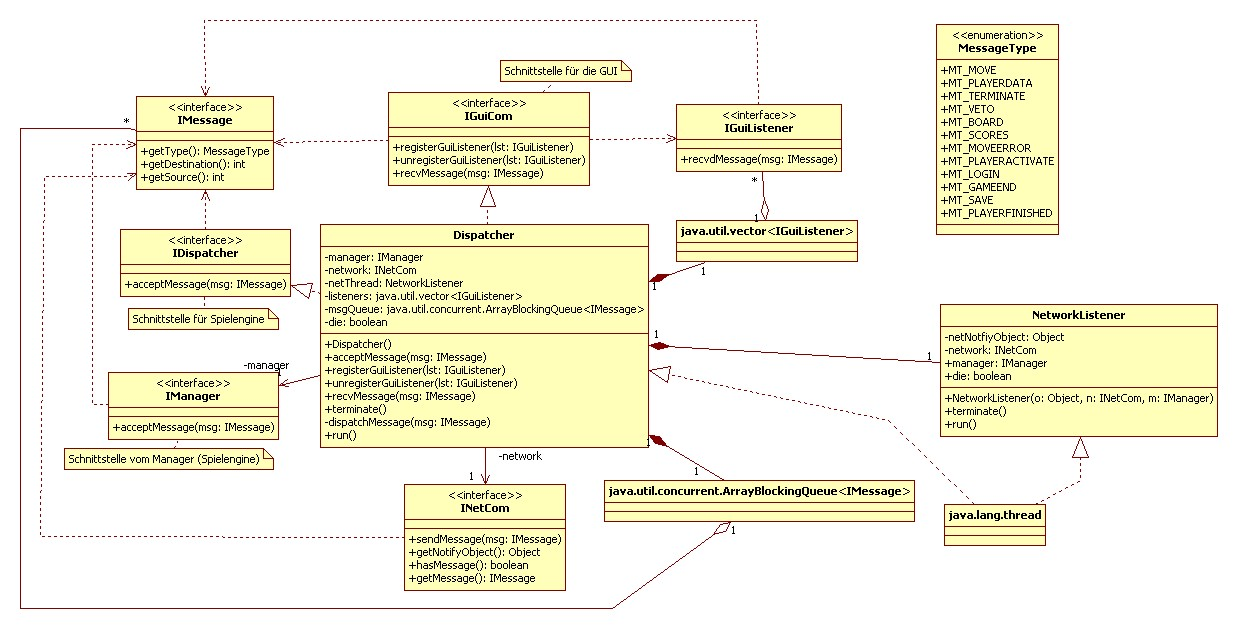
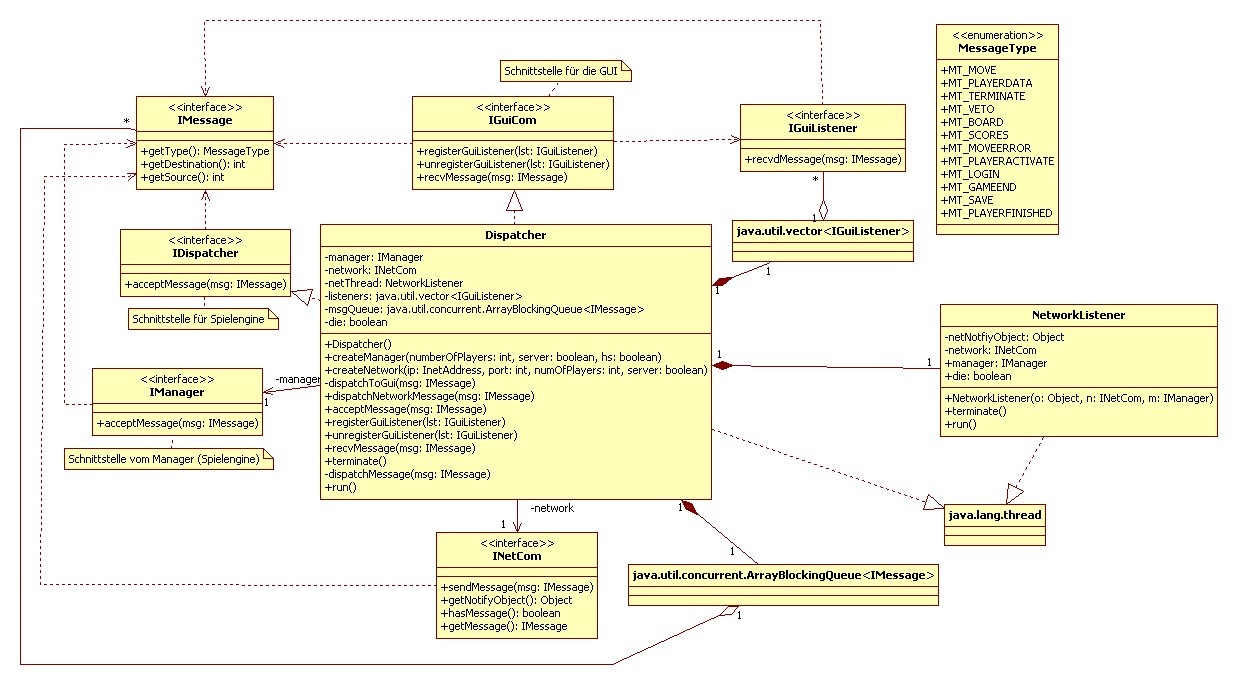
* Serverengine Entwurf angepasst * Anpassungen in der GUI und im Dispatcher für den Netzwerkmodus * Uebersetzungsfehler in Manager.java behoben

diff --git a/trunk/src/com/googlecode/btuswphalma/gui/DialogClientGameData.java b/trunk/src/com/googlecode/btuswphalma/gui/DialogClientGameData.java
@@ -15,18 +15,29 @@ import javax.swing.JDialog;
 import javax.swing.JFrame;
 import javax.swing.JLabel;
 import javax.swing.JTextField;
+import javax.swing.JOptionPane;
+
+import java.net.InetAddress;
+import java.net.UnknownHostException;
 
 /**
  * Modaler Dialog zur Eingabe der Spielerdaten der Clients
  * 
  * @author embix
+ * @author ASM
  * 
  */
 public class DialogClientGameData extends JDialog implements ActionListener {
 
     private boolean ok;
     private JTextField fieldPlayerName;
+    private JTextField fieldIpAddress;
+    private JTextField fieldPort;
     private ClientGameData clientGameData;
+    
+    private boolean hotseat;
+    
+    private String defaultPort = "32334";	// TODO: Zentralisieren?
 
     /**
      * Compiler generierte UID fuer diese Klasse. Wird durch Vererbung von
@@ -38,9 +49,13 @@ public class DialogClientGameData extends JDialog implements ActionListener {
      * @param owner
      *                gibt an, zu welchem Container der Dialog verankert werden
      *                soll.
+     * @param hs 
+     *			gibt an, ob dies ein Clientdialog für den Hotseatmodus sein soll
      */
-    public DialogClientGameData(JFrame owner) {
+    public DialogClientGameData(JFrame owner, boolean hs) {
 	super(owner, "Eingabe der Clientspieldaten", true);
+	
+	hotseat = hs;
 
 	Container pane = getContentPane();
 	GridBagLayout gridbag = new GridBagLayout();
@@ -58,6 +73,35 @@ public class DialogClientGameData extends JDialog implements ActionListener {
 	c.gridwidth = GridBagConstraints.REMAINDER;
 	gridbag.setConstraints(fieldPlayerName, c);
 	pane.add(fieldPlayerName);
+	
+	// Bereich fuer die IP-Adresse
+	label = new JLabel("IP Adresse/Hostname");
+	c.gridwidth = 1;
+	gridbag.setConstraints(label, c);
+	pane.add(label);
+	fieldIpAddress = new JTextField(10);
+	c.gridwidth = GridBagConstraints.REMAINDER;
+	gridbag.setConstraints(fieldIpAddress, c);
+	pane.add(fieldIpAddress);
+	
+	if(hotseat) {
+	    fieldIpAddress.setEnabled(false);
+	}
+	
+	// Bereich fuer den Port
+	label = new JLabel("Netzwerk Port");
+	c.gridwidth = 1;
+	gridbag.setConstraints(label, c);
+	pane.add(label);
+	fieldPort = new JTextField(10);
+	c.gridwidth = GridBagConstraints.REMAINDER;
+	gridbag.setConstraints(fieldPort, c);
+	pane.add(fieldPort);
+	
+	fieldPort.setText(defaultPort);
+	if(hotseat) {
+	    fieldPort.setEnabled(false);
+	}
 
 	/* allgemeiner Standard fuer Dialoge */
 	// OK
@@ -103,6 +147,13 @@ public class DialogClientGameData extends JDialog implements ActionListener {
 	    ok = false; // abgebrochen
 	    dispose(); // Dialog beenden
 	}
+	
+	// Copy & Paste vom Masterdialog :/
+	if(getPort() == 0 || (getPort() > 65535)) {
+		fieldPort.setText(defaultPort);
+		fieldPort.requestFocus();
+		return;
+	    }
     }
 
     /**
@@ -113,6 +164,11 @@ public class DialogClientGameData extends JDialog implements ActionListener {
     public ClientGameData getClientGameData() {
 	clientGameData = new ClientGameData();
 	clientGameData.playerName = getPlayerName();
+	
+	if(!hotseat) {
+        	clientGameData.ip = getIpAddress();
+        	clientGameData.port = getPort();
+	}
 	return clientGameData;
     }
 
@@ -128,5 +184,34 @@ public class DialogClientGameData extends JDialog implements ActionListener {
      */
     private String getPlayerName() {
 	return fieldPlayerName.getText();
+    }
+    
+    private InetAddress getIpAddress()
+    {
+	InetAddress a;
+	
+	try {
+	    a = InetAddress.getByName(fieldIpAddress.getText());
+	}
+	catch(UnknownHostException e) {
+	    JOptionPane.showMessageDialog(null,
+		    "Fehler beim Verarbeiten der IP Adresse/des Hostnamens:\n"
+		    + e.getMessage());
+	    a = null;
+	}
+	return a;
+    }
+    
+    /**
+     * @return gibt den eingegebenen Netzwerkport zurueck
+     */
+    private int getPort() {
+	int port;
+	try {
+	    port = Integer.parseInt(fieldPort.getText());
+	} catch (java.lang.NumberFormatException ex) {
+	    port = 0;
+	}
+	return port;
     }
 }

diff --git a/trunk/src/com/googlecode/btuswphalma/gui/DialogMasterGameData.java b/trunk/src/com/googlecode/btuswphalma/gui/DialogMasterGameData.java
@@ -34,6 +34,10 @@ public class DialogMasterGameData extends JDialog implements ActionListener {
     private JRadioButton radioButtonHotseat;
     private JRadioButton radioButtonNetplay;
     private JTextField fieldAiPlayerCount;
+    private JTextField fieldPort;
+    
+    private String defaultPort = "32334";	// TODO: Sollte vlt. irgendwo zentral als Konstante
+						// definiert sein
 
     /**
      * Compiler generierte UID fuer diese Klasse. Wird durch Vererbung von
@@ -90,6 +94,19 @@ public class DialogMasterGameData extends JDialog implements ActionListener {
 	c.gridwidth = GridBagConstraints.REMAINDER;
 	gridbag.setConstraints(fieldAiPlayerCount, c);
 	pane.add(fieldAiPlayerCount);
+	
+	// Bereich fuer die Portnummereingabe
+	label = new JLabel("Netzwerk Port");
+	c.gridwidth = 1;
+	gridbag.setConstraints(label, c);
+	pane.add(label);
+	fieldPort = new JTextField(10);
+	c.gridwidth = GridBagConstraints.REMAINDER;
+	gridbag.setConstraints(fieldPort, c);
+	pane.add(fieldPort);
+	
+	fieldPort.setText(defaultPort);
+	fieldPort.setEnabled(false);	// Hotseat ist Standardmodus
 
 	// Bereich fuer die Auswahl des Mehrspielermodus
 	radioButtonHotseat = new JRadioButton("Hotseat", true);
@@ -99,7 +116,6 @@ public class DialogMasterGameData extends JDialog implements ActionListener {
 	radioGameMode = new ButtonGroup();
 	radioGameMode.add(radioButtonHotseat);
 	radioGameMode.add(radioButtonNetplay);
-	radioButtonNetplay.setEnabled(false); // TODO: (GUI)(TP3) Netplay disabled - spaeter loeschen
 	add(radioButtonHotseat);
 	add(radioButtonNetplay);
 
@@ -144,6 +160,7 @@ public class DialogMasterGameData extends JDialog implements ActionListener {
 	masterGameData.playerName = getPlayerName();
 	masterGameData.playerCount = getPlayerCount();
 	masterGameData.aiCount = getAiPlayerCount();
+	masterGameData.port = getPort();
 	masterGameData.gmod = getGameMode();
 	return masterGameData;
     }
@@ -179,6 +196,12 @@ public class DialogMasterGameData extends JDialog implements ActionListener {
 		fieldAiPlayerCount.requestFocus();
 		return;
 	    }
+	    
+	    if(getPort() == 0 || (getPort() > 65535)) {
+		fieldPort.setText(defaultPort);
+		fieldPort.requestFocus();
+		return;
+	    }
 
 	    ok = true; // alle Daten korrekt
 	    dispose(); // Dialog beenden
@@ -188,6 +211,14 @@ public class DialogMasterGameData extends JDialog implements ActionListener {
 	    dispose(); // Dialog beenden
 	}
 	// sonst war es ein Klick in die Checkboxen
+	
+	if(cmd.equals("Hotseat")) {
+	    fieldPort.setEnabled(false);
+	}
+	
+	if(cmd.equals("Netzwerkspiel")) {
+	    fieldPort.setEnabled(true);
+	}
     }
 
     /**
@@ -221,6 +252,19 @@ public class DialogMasterGameData extends JDialog implements ActionListener {
 	    aiplayer = 0;
 	}
 	return aiplayer;
+    }
+    
+    /**
+     * @return gibt den eingegebenen Netzwerkport zurueck
+     */
+    private int getPort() {
+	int port;
+	try {
+	    port = Integer.parseInt(fieldPort.getText());
+	} catch (java.lang.NumberFormatException ex) {
+	    port = 0;
+	}
+	return port;
     }
 
     /**

diff --git a/trunk/src/com/googlecode/btuswphalma/gui/SInputGameData.java b/trunk/src/com/googlecode/btuswphalma/gui/SInputGameData.java
@@ -56,13 +56,14 @@ public class SInputGameData implements IRunnableGuiState {
     }
     
     void promptClientGameData() {
-	DialogClientGameData dialog = new DialogClientGameData(controller.getPresentation());
+	DialogClientGameData dialog = new DialogClientGameData(controller.getPresentation(),false);
 	
 	if(dialog.ok()) {
-	    ClientGameData mData = dialog.getClientGameData();
-	    controller.getEngine().createManager(1, false, false);	// TODO: Instanzierung der Clientengine noch nicht bestimmt
+	    ClientGameData cData = dialog.getClientGameData();
+	    controller.getEngine().createManager(1, false, false);
+	    controller.getEngine().createNetwork(cData.ip, cData.port, 0, false);
 	    
-	    controller.getMessageHandler().sendMessage(new LoginMessage(mData.playerName,1,-1));
+	    controller.getMessageHandler().sendMessage(new LoginMessage(cData.playerName,1,-1));
 	}
     }
     
@@ -78,13 +79,16 @@ public class SInputGameData implements IRunnableGuiState {
 	    if(mData.gmod == GameMode.HOT_SEAT ) {
 		// Hotseat Modus -> Infos für die anderen Spieler abholen
 		for(int i=1;i<mData.playerCount;i++) {
-			DialogClientGameData mClientDlg = new DialogClientGameData(controller.getPresentation());
+			DialogClientGameData mClientDlg = new DialogClientGameData(controller.getPresentation(),true);
 			
 			if(mClientDlg.ok()) {
 			    ClientGameData mClientData = mClientDlg.getClientGameData();
 			    controller.getMessageHandler().sendMessage(new LoginMessage(mClientData.playerName,i+1,-1));
 			}
 		    }
+	    } else {
+		// playerCount kann so uebergeben werden da ServerNetCom immer Anzahl Clients plus 1 haben will.
+		controller.getEngine().createNetwork(null, mData.port, mData.playerCount, true);
 	    }
 	}
     }

diff --git a/trunk/src/com/googlecode/btuswphalma/serverengine/Dispatcher.java b/trunk/src/com/googlecode/btuswphalma/serverengine/Dispatcher.java
@@ -3,6 +3,9 @@ package com.googlecode.btuswphalma.serverengine;
 import com.googlecode.btuswphalma.base.*;
 import com.googlecode.btuswphalma.gameengine.IManager;
 import com.googlecode.btuswphalma.gameengine.Manager;
+import com.googlecode.btuswphalma.network.ServerNetCom;
+import com.googlecode.btuswphalma.network.ClientNetCom;
+import java.net.InetAddress;
 
 /**
  * Hauptklasse der Server-Engine
@@ -83,6 +86,31 @@ public class Dispatcher extends Thread implements IDispatcher, IGuiCom {
 	// Manager müssen immer von Runnable abgeleitet werden
 	managerThread = new Thread((Runnable)manager);
 	managerThread.start();
+    }
+    
+    /**
+     * Instanziert das Netzwerksystem
+     * @param ip
+     * 				IP Adresse des Servers (nur notwendig wenn server)
+     * @param port
+     * 				Port zu dem verbunden bzw. an dem gelaucht werden soll
+     * 
+     * @param numOfPlayers
+     * 				Anzahl der teilnehmenden Spieler (nur notwendig wenn server)
+     * @param server
+     * 				Gibt an, ob das Server- oder Clientnetzwerk
+     * 				instanziert werden soll
+     */
+    public void createNetwork(InetAddress ip, int port, int numOfPlayers, boolean server) {
+	if(server) {
+	    network = new ServerNetCom(port, numOfPlayers);
+	}
+	else {
+	    network = new ClientNetCom(ip, port);
+	}
+	
+	netThread = new NetworkListener(network, this);
+	netThread.start();
     }
     
     private void dispatchToGui(IMessage msg) {

diff --git a/trunk/src/com/googlecode/btuswphalma/gui/ClientGameData.java b/trunk/src/com/googlecode/btuswphalma/gui/ClientGameData.java
@@ -3,12 +3,15 @@
  */
 package com.googlecode.btuswphalma.gui;
 
+import java.net.InetAddress;
+
 /**
  * ClientGameData kapselt die Daten der Spieler, die nicht das Spiel leiten,
  * welche zum Spielbeginn benoetigt werden. Das Objekt ist vorerst nicht
  * gekapselt, da es momentan noch nicht sinnvoll erscheint.
  * 
  * @author embix
+ * @author ASM
  * 
  */
 public class ClientGameData {
@@ -17,5 +20,15 @@ public class ClientGameData {
      * Name des Spielers
      */
     public String playerName;
+    
+    /**
+     * Server IP Adresse
+     */
+    public InetAddress ip;
+    
+    /**
+     * Port des Servers
+     */
+    public int port;
 
 }

diff --git a/trunk/tests/com/googlecode/btuswphalma/gui/DialogClientGameDataStarter.java b/trunk/tests/com/googlecode/btuswphalma/gui/DialogClientGameDataStarter.java
@@ -60,7 +60,7 @@ public class DialogClientGameDataStarter extends JPanel implements
      * @see java.awt.event.ActionListener#actionPerformed(java.awt.event.ActionEvent)
      */
     public void actionPerformed(ActionEvent event) {
-	dialog = new DialogClientGameData(owner);
+	dialog = new DialogClientGameData(owner,true);
 	// hier gehts erst weiter, wenn Dialog geschlossen wurde
 	if (dialog.ok()) {
 	    System.out.println("Dialog ok");

diff --git a/trunk/src/com/googlecode/btuswphalma/gameengine/Manager.java b/trunk/src/com/googlecode/btuswphalma/gameengine/Manager.java
@@ -528,7 +528,7 @@ public class Manager implements IManager, Runnable {
      * @return ein Message mit einem Board
      */
     private IMessage createBoardMessage(int destination) {
-        return new BoardMessage(SERVER_ID, destination, game.getBoard());
+        return new BoardMessage(SERVER_ID, destination, game.getBoard(), game.getActivePlayer());
     }
 
 }

diff --git a/trunk/src/com/googlecode/btuswphalma/gui/MasterGameData.java b/trunk/src/com/googlecode/btuswphalma/gui/MasterGameData.java
@@ -32,5 +32,10 @@ public class MasterGameData {
      * Anteil der Spielerslots, die durch Computergegner besetzt werden
      */
     public int aiCount = 0; // fuer TP2 und TP3 keine AI
+    
+    /**
+     * Port an dem der Server lauschen soll
+     */
+    public int port;
 
 }
